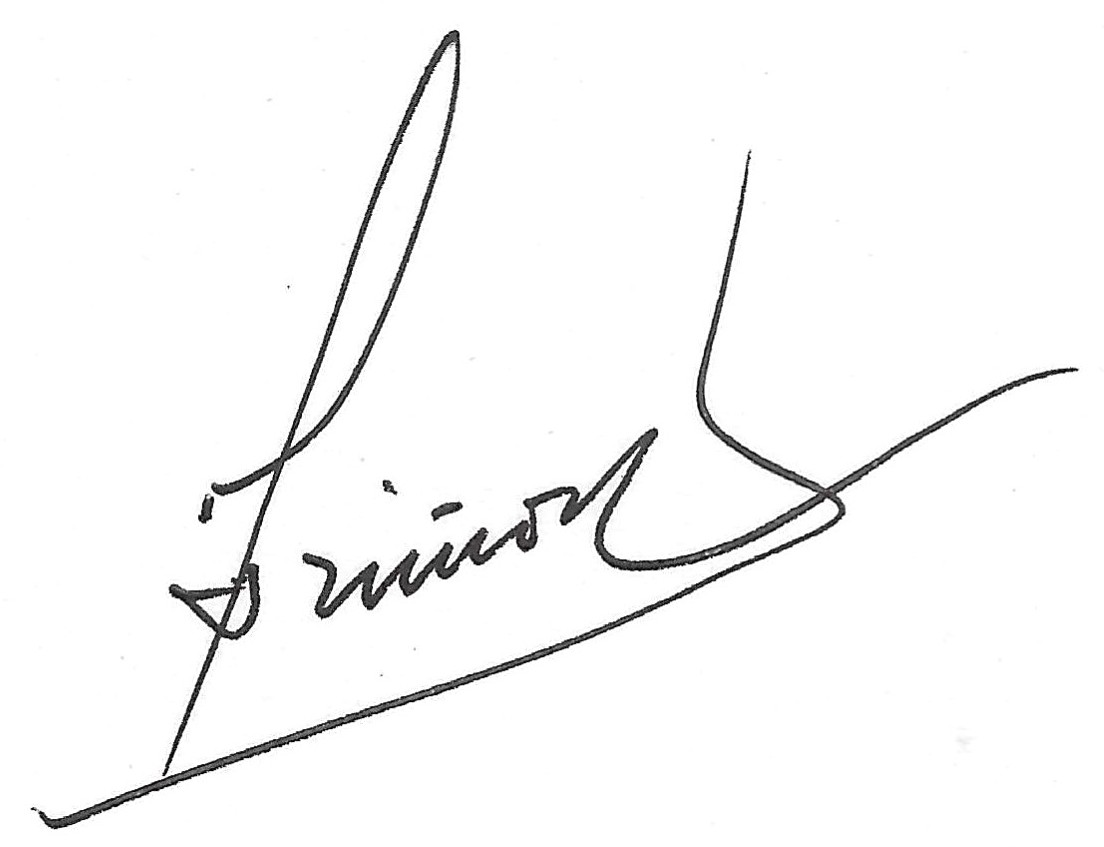
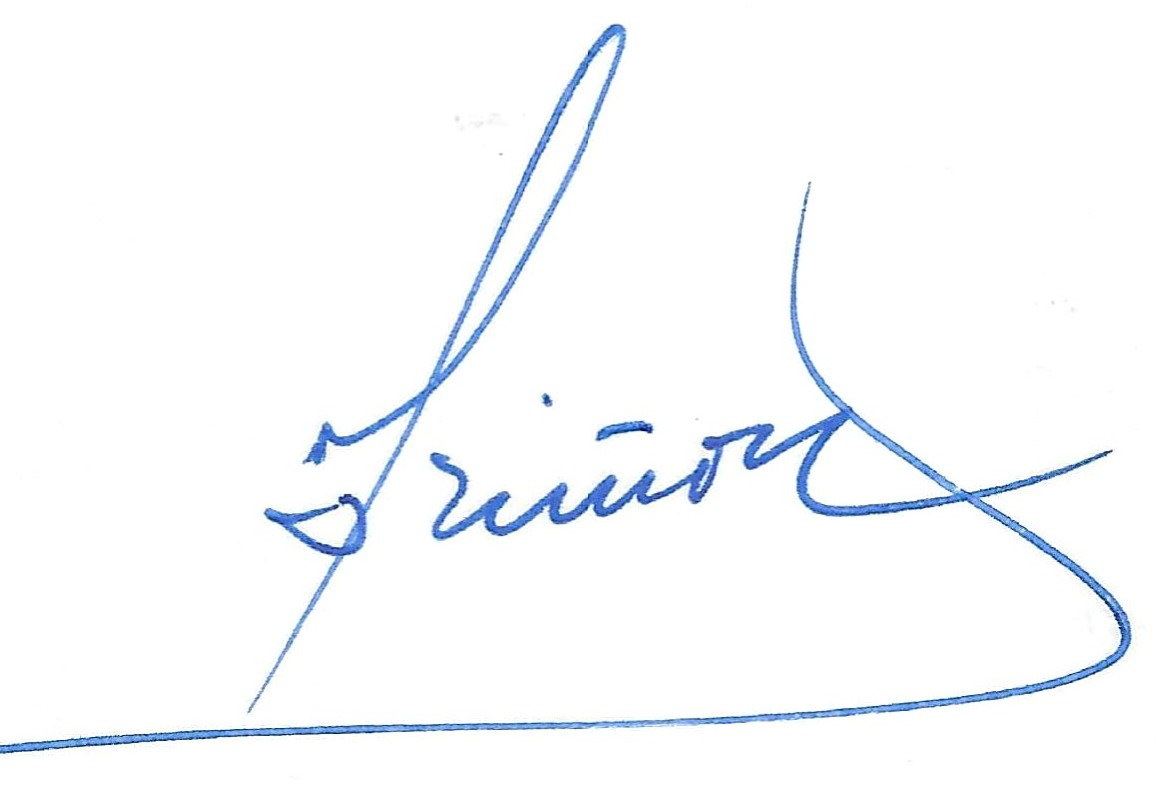
New image and sign for some documents

diff --git a/app/Http/Controllers/Investigador/Constancias/ReporteController.php b/app/Http/Controllers/Investigador/Constancias/ReporteController.php
@@ -403,31 +403,33 @@ class ReporteController extends S3Controller {
       ->get();
 
 
-    if (!$solicitud) {
-      $pdf = Pdf::loadView('admin.constancias.capituloLibroPDF', [
-        'docente' => $docente[0],
-        'publicaciones' => $publicaciones,
-        'username' => false
-      ]);
-      return $pdf->stream();
-    } else {
-      $date = Carbon::now();
-      $nameFile = 'capitulos_' . $request->attributes->get('token_decoded')->investigador_id . '_' . $date->format('YmdHis') . '_' . Str::random(8) . '.pdf';
-      $nameFileN = 'capitulos_' . $request->attributes->get('token_decoded')->investigador_id . '_' . $date->format('YmdHis') . '_' . Str::random(8) . '_original.pdf';
+    // if (!$solicitud) {
+    //   $pdf = Pdf::loadView('admin.constancias.capituloLibroPDF', [
+    //     'docente' => $docente[0],
+    //     'publicaciones' => $publicaciones,
+    //     'username' => false
+    //   ]);
+    //   return $pdf->stream();
+    // } else {
+    $date = Carbon::now();
+    $nameFile = 'capitulos_' . $request->attributes->get('token_decoded')->investigador_id . '_' . $date->format('YmdHis') . '_' . Str::random(8) . '.pdf';
+    // $nameFileN = 'capitulos_' . $request->attributes->get('token_decoded')->investigador_id . '_' . $date->format('YmdHis') . '_' . Str::random(8) . '_original.pdf';
 
-      $qrUrl =  env('URL_CONSTANCIAS') . "constancias/" . $nameFile;
-      $qrCode = base64_encode(QrCode::format('png')->size(300)->generate($qrUrl));
+    $qrUrl =  env('URL_CONSTANCIAS') . "constancias/" . $nameFile;
+    $qrCode = base64_encode(QrCode::format('png')->size(300)->generate($qrUrl));
 
-      $pdf = Pdf::loadView('investigador.constancias.capituloLibroPDF', [
-        'docente' => $docente[0],
-        'publicaciones' => $publicaciones,
-        'username' => false,
-        'file' => $nameFile,
-        'qrCode' => $qrCode
-      ]);
+    $pdf = Pdf::loadView('investigador.constancias.capituloLibroPDF', [
+      'docente' => $docente[0],
+      'publicaciones' => $publicaciones,
+      'username' => false,
+      'file' => $nameFile,
+      'qrCode' => $qrCode
+    ]);
 
-      return ['file' => $pdf->output(), 'name' => $nameFile, 'original_file' => $nameFileN];
-    }
+    return $pdf->stream();
+
+    // return ['file' => $pdf->output(), 'name' => $nameFile, 'original_file' => $nameFileN];
+    // }
   }
 
   public function getConstanciaPublicacionesCientificas(Request $request, $solicitud = false) {
@@ -615,7 +617,7 @@ class ReporteController extends S3Controller {
 
     $file = $this->getFile('constancias', $pdf["name"]);
 
-    Mail::to($investigador->email3)->cc('jninom@unmsm.edu.pe')->send(new ConstanciaFirmada(
+    Mail::to('alefran2020@gmail.com')->send(new ConstanciaFirmada(
       $investigador->nombres,
       $request->input('tipo_desc'),
       $file

diff --git a/resources/views/investigador/constancias/capituloLibroPDF.blade.php b/resources/views/investigador/constancias/capituloLibroPDF.blade.php
@@ -90,13 +90,11 @@
     .table-texto2 {
       width: 100%;
       table-layout: fixed;
-
     }
 
     .table-texto2 td {
       text-align: left;
       font-size: 12px;
-
     }
 
     .table-texto2 td:first-child {
@@ -106,8 +104,6 @@
     .table-footer {
       width: 100%;
       text-align: center;
-      margin-top: 100px;
-
     }
 
     .table-content {
@@ -144,10 +140,6 @@
 
     }
 
-    .extra-firma {
-      font-size: 14px;
-    }
-
     .foot-1 {
       width: 100%;
       position: fixed;
@@ -159,6 +151,24 @@
 
     .firma {
       width: 150px;
+    }
+
+    .sello {
+      width: 100px;
+    }
+
+    .table-sello-firma {
+      margin: auto;
+      width: 55%;
+      text-align: center;
+      margin-top: 50px;
+    }
+
+    .nombre-vice {
+      top: -45px;
+      position: relative;
+      text-align: center;
+      font-size: 14px;
     }
   </style>
 
@@ -239,16 +249,6 @@
 
   @php $i=0; @endphp
   @foreach ($publicaciones as $libro)
-    {{-- <table  style="width: 100%;margin-bottom:0;margin-top:0;padding:0;">
-            <tr>
-                <td colspan="100%" style="margin: 0;padding: 0;">
-                    <h6
-                        style="width: 100%; padding: 10px; background-color: #f5f5f5; border: 1px solid #ddd; border-radius: 10px; ">
-                        Capitulo de Libro
-                    </h6>
-                </td>
-            </tr>
-        </table> --}}
     <table class="table-content">
       <thead>
         <tr>
@@ -303,19 +303,22 @@
     </tr>
   </table>
 
-
-  <table class="table-footer">
+  <table class="table-sello-firma">
     <tr class="extra-firma">
+      <td style="margin-top: 15px; margin-left: 10px;">
+        <img class="sello" src="{{ public_path('sello.jpg') }}" alt="Firma">
+      </td>
       <td>
         <img class="firma" src="{{ public_path('firma-negra.jpg') }}" alt="Firma">
       </td>
-    </tr>
-    <tr>
-      <td>
-        Dr. José Segundo Niño Montero <br><strong>Vicerrector</strong>
+      <td style="width: 100px;">
       </td>
     </tr>
   </table>
+
+  <p class="nombre-vice">
+    Dr. José Segundo Niño Montero <br><strong>Vicerrector</strong>
+  </p>
 
   <div class="foot-1">
     <table style="width: 80%; font-size: 10px;">
